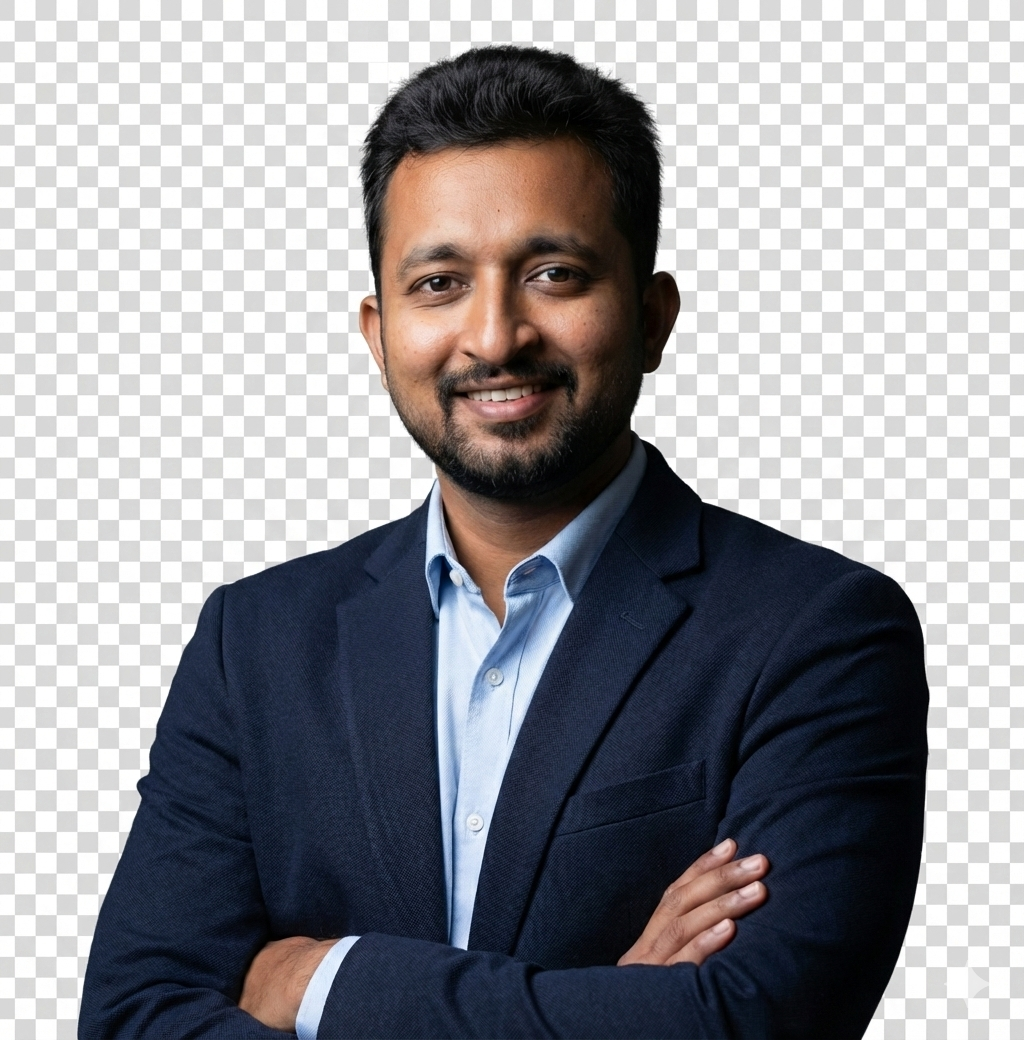
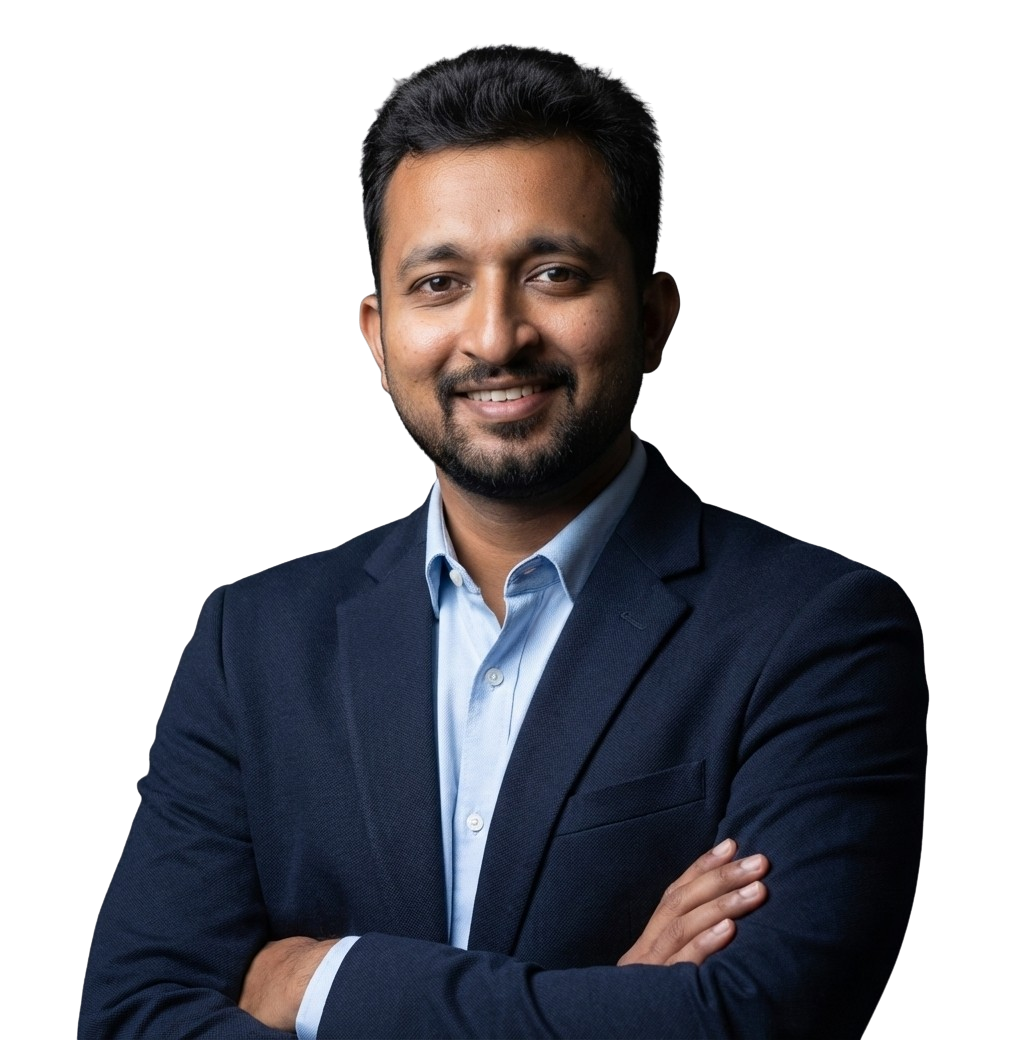
add this all

Changed region(s): [[0.0, 0.0, 1.0, 1.0]]

diff --git a/index.html b/index.html
@@ -7,7 +7,7 @@
     <link rel="stylesheet" href="style/style.css">
 </head>
 <body>
-    <header>
+    <header class="header">
       <nav>
          <img src="images/Logo.png" alt="">
          <ul>
@@ -16,6 +16,18 @@
             <li><a href=""><button class="btn-praimary">Hire Me</button></a></li>
         </ul>
       </nav>
+      <div class="bannr">
+          <div class="bannarContent">
+            <h4 class="bannerGreetings">Hi,I am</h4>
+            <h1 class="bannarTitle">FreelancerSadik</h1>
+            <p class="banner-description">
+                Shot what able cold new see hold.Friendly as an betrayed formerly he. Morning because as to society behaved moments.
+            </p>
+            <button class="btn-praimary">Download CV</button>
+            <button class="btn-praimary">Contact</button>
+          </div>
+          <img class="bannarImage" src="images/Sadik.png" alt="">
+      </div>
     </header>
     <main>
 

diff --git a/style/style.css b/style/style.css
@@ -36,5 +36,36 @@ nav ul li a{
     font-size: 20px;
     color: #474747;
 }
+/* Header style */
+.header{
+    background-image: url(../images/developer.png),url(../images/header_bg.png);
+    background-repeat: no-repeat;
+    background-position: top left,bottom right;
+}
+/* Banner Style */
+.bannr{
+    display: flex;
+    justify-content: space-between;
+    margin:0 35px 0 230px;
+}
+.bannarContent{
+    max-width: 580px;
+}
+.bannerGreetings{
+    font-family: Open Sans ;
+    font-size: 45px;
+    font-weight: 600;
+}
+.bannarTitle{
+    font-family: Open Sans;
+    font-size: 85px;
+}
+.banner-description{
+    font-family: open sans;
+    font-size: 18px;
 
+}
+.bannarImage{
+    width:580px;
+}
 
